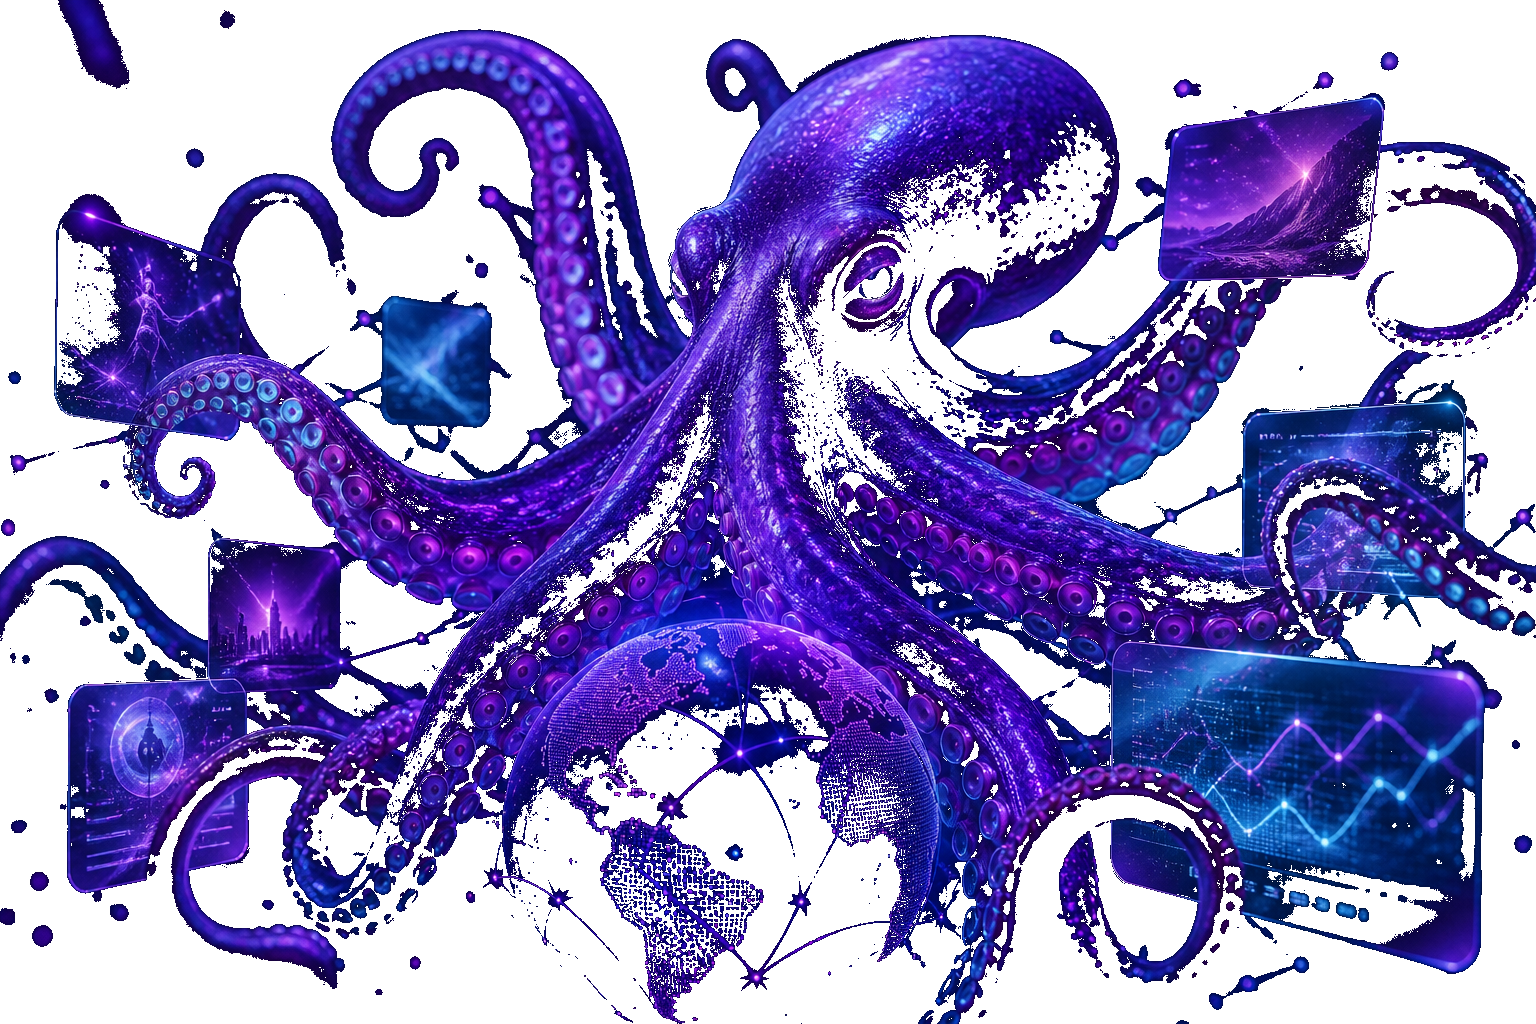
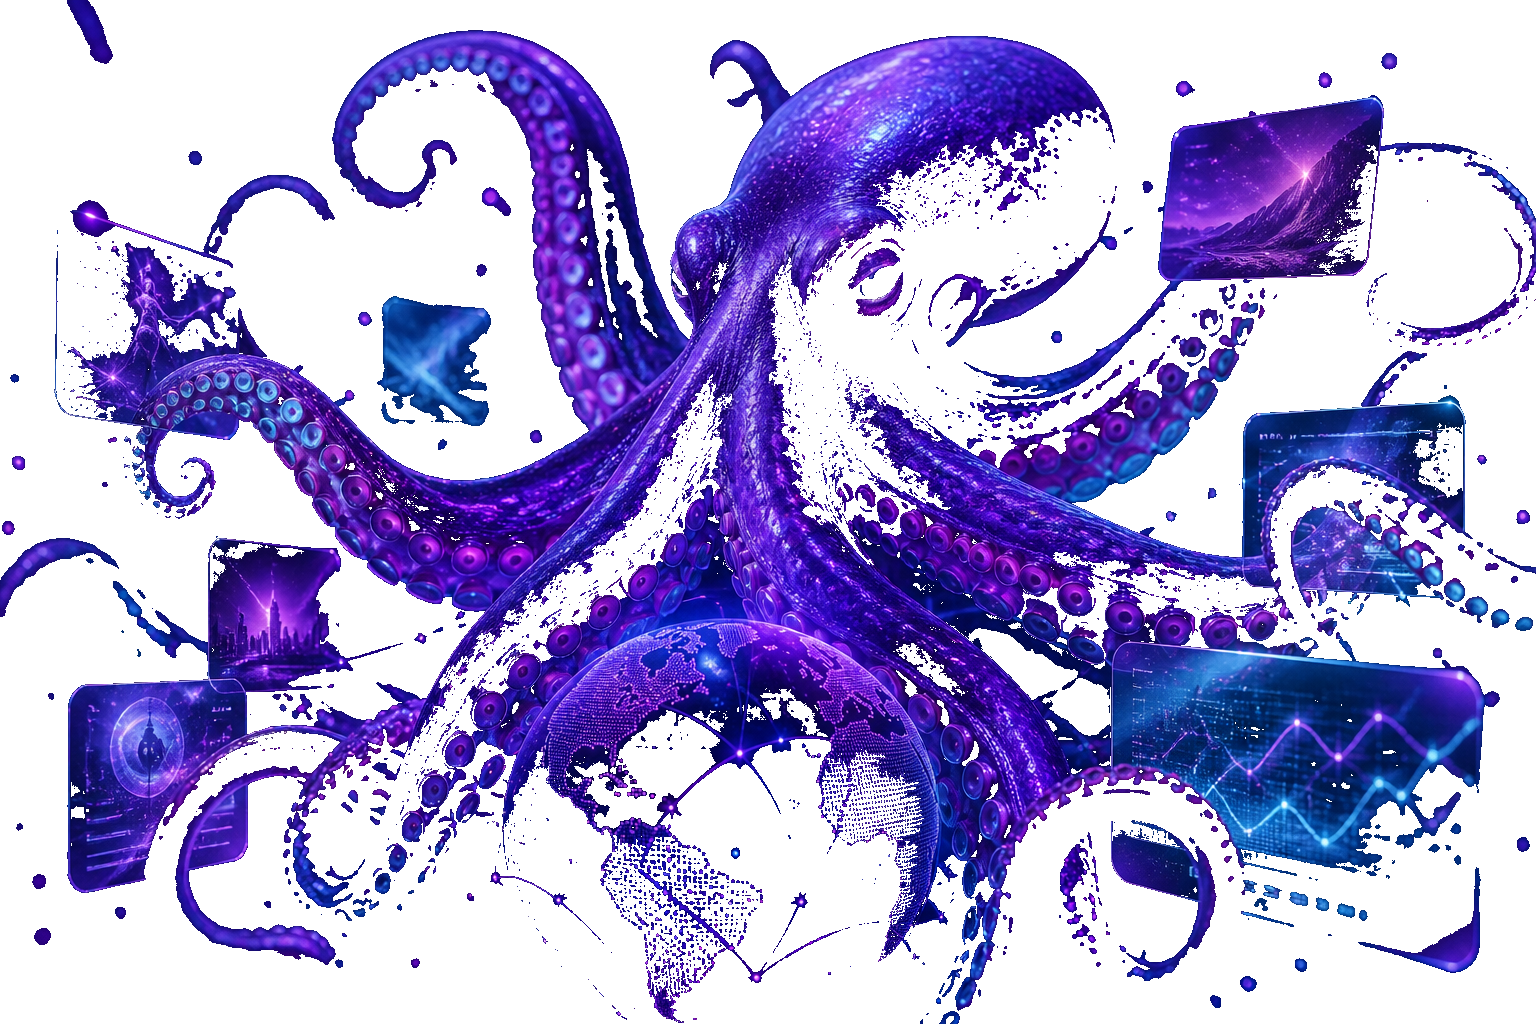
Cut out hero octopus so only subject floats on page background

diff --git a/src/app/page.tsx b/src/app/page.tsx
@@ -44,18 +44,19 @@ export default function Home() {
               ))}
             </dl>
           </div>
-          <div className="relative flex items-center justify-center lg:-mr-6">
+          <div className="relative flex items-center justify-center">
             <div
               aria-hidden
-              className="pointer-events-none absolute inset-[18%] rounded-full bg-fuchsia-500/25 blur-3xl animate-pulse-soft"
+              className="pointer-events-none absolute left-1/2 top-1/2 h-[55%] w-[55%] -translate-x-1/2 -translate-y-1/2 rounded-full bg-fuchsia-500/20 blur-3xl animate-pulse-soft"
             />
             <Image
-              src="/hero-octopus.png"
+              src="/hero-cutout.png"
               alt="AdsOcto octopus with holographic ad screens"
-              width={1536}
-              height={1024}
+              width={1400}
+              height={1000}
               priority
-              className="hero-octopus relative z-10 h-auto w-full max-w-none object-contain drop-shadow-[0_30px_80px_rgba(124,58,237,0.45)] animate-float"
+              unoptimized
+              className="hero-octopus relative z-10 h-auto w-full object-contain animate-float"
             />
           </div>
         </div>

diff --git a/src/app/about/page.tsx b/src/app/about/page.tsx
@@ -23,7 +23,7 @@ export default function AboutPage() {
             className="pointer-events-none absolute inset-[12%] rounded-full bg-fuchsia-500/20 blur-3xl"
           />
           <Image
-            src="/hero-octopus.png"
+            src="/hero-cutout.png"
             alt="AdsOcto octopus mascot"
             width={1536}
             height={1024}

diff --git a/src/app/globals.css b/src/app/globals.css
@@ -139,8 +139,7 @@ body {
 }
 
 .hero-octopus {
-  background: transparent;
-  /* if any dark pixels remain, blend them into the page bg */
+  background: transparent !important;
   mix-blend-mode: screen;
 }
 
